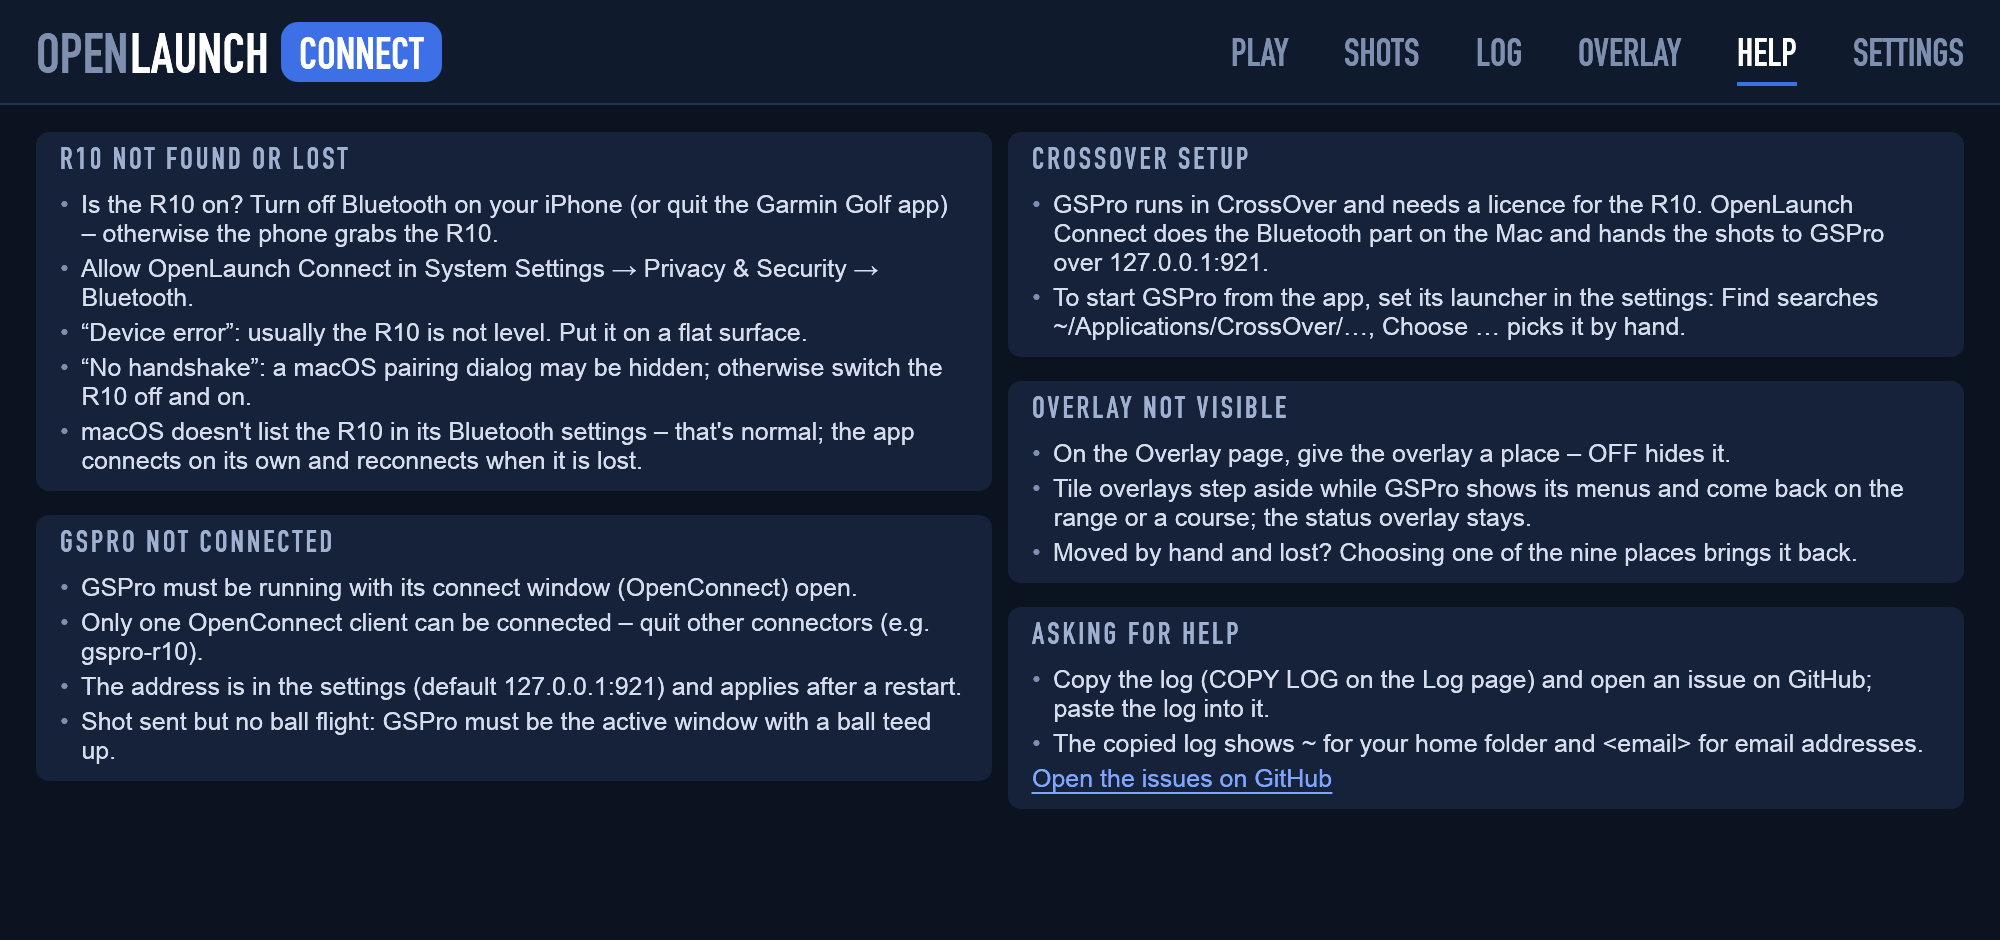
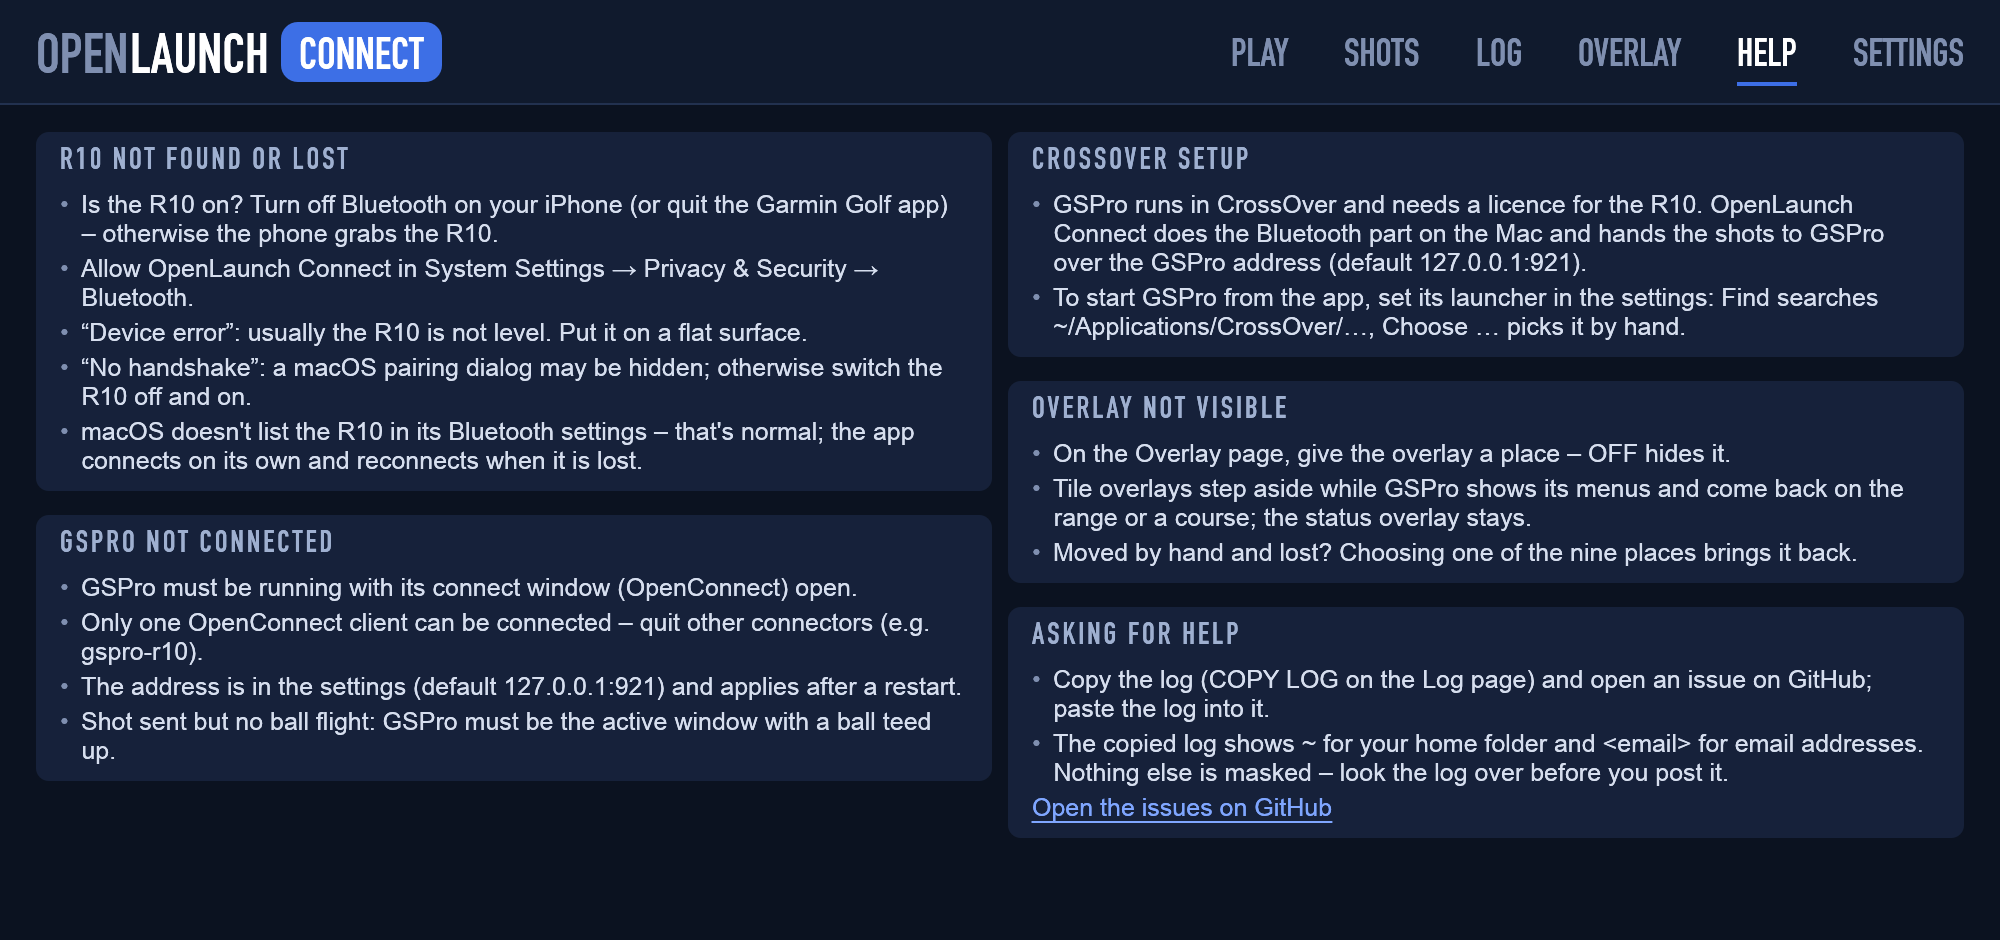
Copy the log: stderr half of the mask tested, Help says what is not masked
- emit_with_home takes the terminal to write to; the test checks that
  the terminal gets the masked line, not only the stored copy.
- The Help page's "Asking for help" adds "Nothing else is masked – look
  the log over before you post it." (EN + DE).
- Help (EN + DE) and README: the shots go over the GSPro address
  (default 127.0.0.1:921), which is a setting. Help screenshot updated.

Changed region(s): [[0.496, 0.8021, 0.992, 0.8947], [0.558, 0.2468, 0.775, 0.3085]]

diff --git a/src/i18n/de.rs b/src/i18n/de.rs
@@ -68,7 +68,7 @@ pub(super) fn table(en: &str) -> Option<&'static str> {
         "The address is in the settings (default 127.0.0.1:921) and applies after a restart." => "Die Adresse steht in den Einstellungen (Standard 127.0.0.1:921) und gilt nach einem Neustart.",
         "Shot sent but no ball flight: GSPro must be the active window with a ball teed up." => "Schlag gesendet, aber kein Ballflug: GSPro muss das aktive Fenster sein und ein Ball aufgeteet.",
         "CROSSOVER SETUP" => "CROSSOVER EINRICHTEN",
-        "GSPro runs in CrossOver and needs a licence for the R10. {app} does the Bluetooth part on the Mac and hands the shots to GSPro over 127.0.0.1:921." => "GSPro läuft in CrossOver und braucht eine Lizenz für den R10. {app} übernimmt Bluetooth auf dem Mac und gibt die Schläge über 127.0.0.1:921 an GSPro.",
+        "GSPro runs in CrossOver and needs a licence for the R10. {app} does the Bluetooth part on the Mac and hands the shots to GSPro over the GSPro address (default 127.0.0.1:921)." => "GSPro läuft in CrossOver und braucht eine Lizenz für den R10. {app} übernimmt Bluetooth auf dem Mac und gibt die Schläge über die GSPro-Adresse (Standard 127.0.0.1:921) an GSPro.",
         "To start GSPro from the app, set its launcher in the settings: Find searches ~/Applications/CrossOver/…, Choose … picks it by hand." => "Um GSPro aus der App zu starten, wähle den GSPro-Starter in den Einstellungen: Suchen durchsucht ~/Applications/CrossOver/…, Auswählen … wählt ihn von Hand.",
         "OVERLAY NOT VISIBLE" => "OVERLAY NICHT SICHTBAR",
         "On the Overlay page, give the overlay a place – OFF hides it." => "Gib dem Overlay auf der Overlay-Seite einen Platz – AUS blendet es aus.",
@@ -76,7 +76,7 @@ pub(super) fn table(en: &str) -> Option<&'static str> {
         "Moved by hand and lost? Choosing one of the nine places brings it back." => "Von Hand verschoben und verloren? Einer der neun Plätze holt es zurück.",
         "ASKING FOR HELP" => "HILFE BEKOMMEN",
         "Copy the log (COPY LOG on the Log page) and open an issue on GitHub; paste the log into it." => "Kopiere das Log (LOG KOPIEREN auf der Log-Seite) und eröffne ein Issue auf GitHub; füge das Log dort ein.",
-        "The copied log shows ~ for your home folder and <email> for email addresses." => "Im kopierten Log steht ~ für deinen Benutzerordner und <email> für E-Mail-Adressen.",
+        "The copied log shows ~ for your home folder and <email> for email addresses. Nothing else is masked – look the log over before you post it." => "Im kopierten Log steht ~ für deinen Benutzerordner und <email> für E-Mail-Adressen. Sonst wird nichts verborgen – sieh das Log durch, bevor du es veröffentlichst.",
         "Open the issues on GitHub" => "Issues auf GitHub öffnen",
 
         // Shots page

diff --git a/src/log.rs b/src/log.rs
@@ -5,6 +5,7 @@
 //! written straight into `State::log` is not masked at all, so look a log over before posting it.
 //! Never log a token or a player's name; the mask is a safety net, not a licence.
 
+use std::io::Write;
 use std::time::{SystemTime, UNIX_EPOCH};
 
 fn stamp() -> String {
@@ -63,13 +64,13 @@ unsafe fn libc_time() -> i64 {
 }
 
 fn emit(line: String) {
-    emit_with_home(line, home().as_deref());
+    emit_with_home(&mut std::io::stderr(), line, home().as_deref());
 }
 
-/// [`emit`] with the home folder given (tests pass their own).
-fn emit_with_home(line: String, home: Option<&str>) {
+/// [`emit`] with the terminal `out` and the home folder given (tests pass their own).
+fn emit_with_home(out: &mut impl Write, line: String, home: Option<&str>) {
     let line = mask(&line, home);
-    eprintln!("{line}");
+    let _ = writeln!(out, "{line}");
     crate::state::push_log(line);
 }
 
@@ -203,9 +204,12 @@ mod tests {
         gspro("Message: contact a.b@c.de");
         let last = crate::state::with(|s| s.log.back().cloned()).unwrap();
         assert!(last.ends_with("[GSPro] Message: contact <email>"), "{last}");
-        emit_with_home(format!("{} Launcher: /Users/jane/Applications/GSPro.app", stamp()), HOME);
+        let mut terminal = Vec::new();
+        emit_with_home(&mut terminal, format!("{} Launcher: /Users/jane/Applications/GSPro.app", stamp()), HOME);
         let last = crate::state::with(|s| s.log.back().cloned()).unwrap();
         assert!(last.ends_with(" Launcher: ~/Applications/GSPro.app"), "{last}");
+        // The terminal gets the masked line too, not only the stored copy.
+        assert_eq!(String::from_utf8(terminal).unwrap(), format!("{last}\n"));
     }
 
     /// The home folder the masks use is `HOME`.

diff --git a/src/ui/help.rs b/src/ui/help.rs
@@ -42,7 +42,7 @@ impl Page for HelpPage {
                     app(tr("Shot sent but no ball flight: GSPro must be the active window with a ball teed up.")),
                 ]);
                 section(&mut cols[1], tr("CROSSOVER SETUP"), &[
-                    app(tr("GSPro runs in CrossOver and needs a licence for the R10. {app} does the Bluetooth part on the Mac and hands the shots to GSPro over 127.0.0.1:921.")),
+                    app(tr("GSPro runs in CrossOver and needs a licence for the R10. {app} does the Bluetooth part on the Mac and hands the shots to GSPro over the GSPro address (default 127.0.0.1:921).")),
                     app(tr("To start GSPro from the app, set its launcher in the settings: Find searches ~/Applications/CrossOver/…, Choose … picks it by hand.")),
                 ]);
                 section(&mut cols[1], tr("OVERLAY NOT VISIBLE"), &[
@@ -53,7 +53,7 @@ impl Page for HelpPage {
                 let ui = &mut cols[1];
                 tile(ui, tr("ASKING FOR HELP"), |ui| {
                     bullet(ui, &app(tr("Copy the log (COPY LOG on the Log page) and open an issue on GitHub; paste the log into it.")));
-                    bullet(ui, &app(tr("The copied log shows ~ for your home folder and <email> for email addresses.")));
+                    bullet(ui, &app(tr("The copied log shows ~ for your home folder and <email> for email addresses. Nothing else is masked – look the log over before you post it.")));
                     let link = ui.link(RichText::new(tr("Open the issues on GitHub")).size(12.5).color(ICON).underline());
                     if link.on_hover_text(ISSUES_URL).clicked() {
                         ui.ctx().open_url(egui::OpenUrl::new_tab(ISSUES_URL));

diff --git a/README.md b/README.md
@@ -239,7 +239,7 @@ The app's **HELP** page has the common fixes in short. Still stuck? Press **COPY
 - **NO GSPRO** – GSPro isn't running or its connect window is closed. Only one OpenConnect client can be connected – quit other connectors (e.g. gspro-r10).
 - **Shot sent but no ball flight** – GSPro must be the active window with a ball teed up.
 - macOS does **not** list the R10 in the Bluetooth settings – that's normal for this kind of BLE device; the app connects on its own.
-- **CrossOver setup** – GSPro runs in CrossOver and needs a licence for the R10; the app does the Bluetooth part and talks to GSPro over `127.0.0.1:921`. For *Start GSPro*, set the launcher in the settings (*Find* searches `~/Applications/CrossOver/…`, *Choose …* picks it by hand).
+- **CrossOver setup** – GSPro runs in CrossOver and needs a licence for the R10; the app does the Bluetooth part and talks to GSPro over the GSPro address (default `127.0.0.1:921`, see *Settings*). For *Start GSPro*, set the launcher in the settings (*Find* searches `~/Applications/CrossOver/…`, *Choose …* picks it by hand).
 - **Overlay not visible** – give it a place on the *Overlay* page (*Off* hides it). Tile overlays step aside while GSPro shows its menus and come back on the range or a course. Moved by hand and lost? Choosing one of the nine places brings it back.
 
 ## Command-line version
